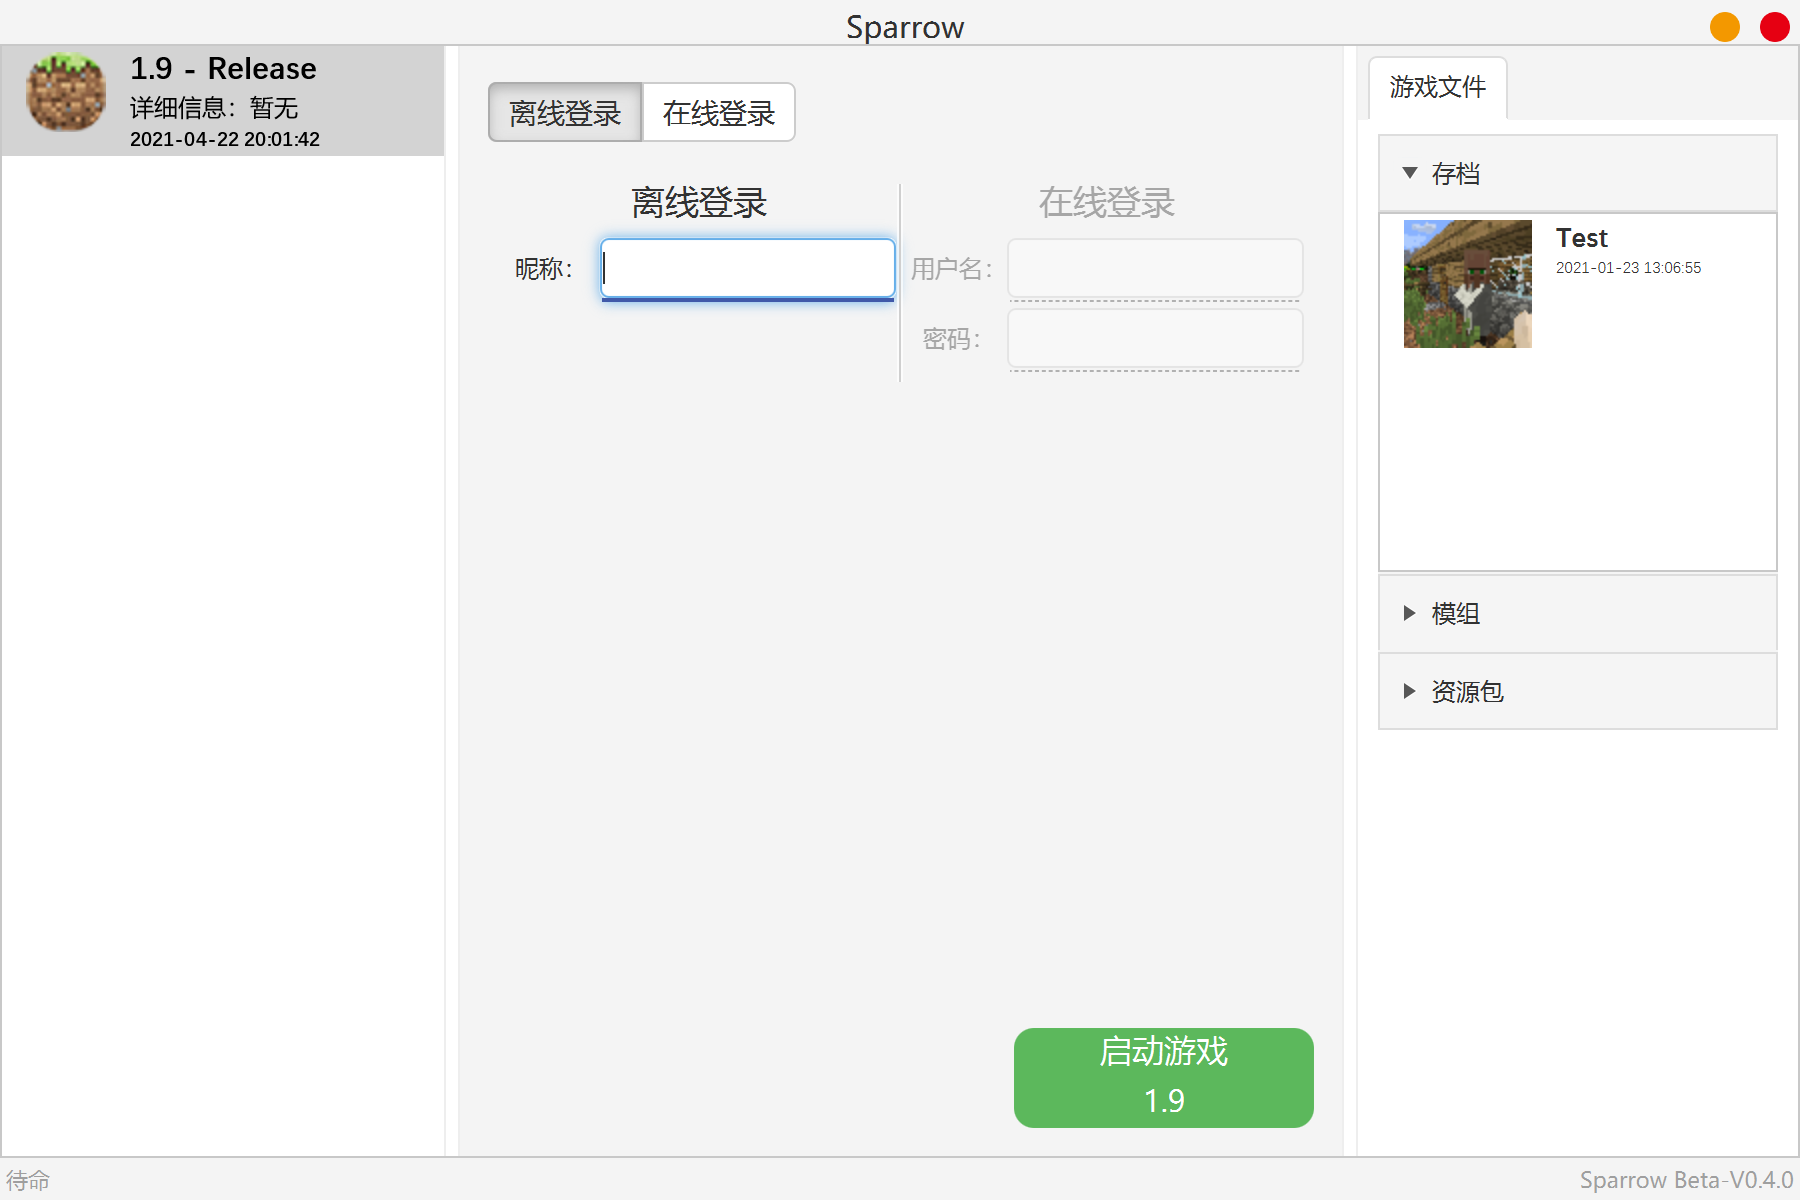
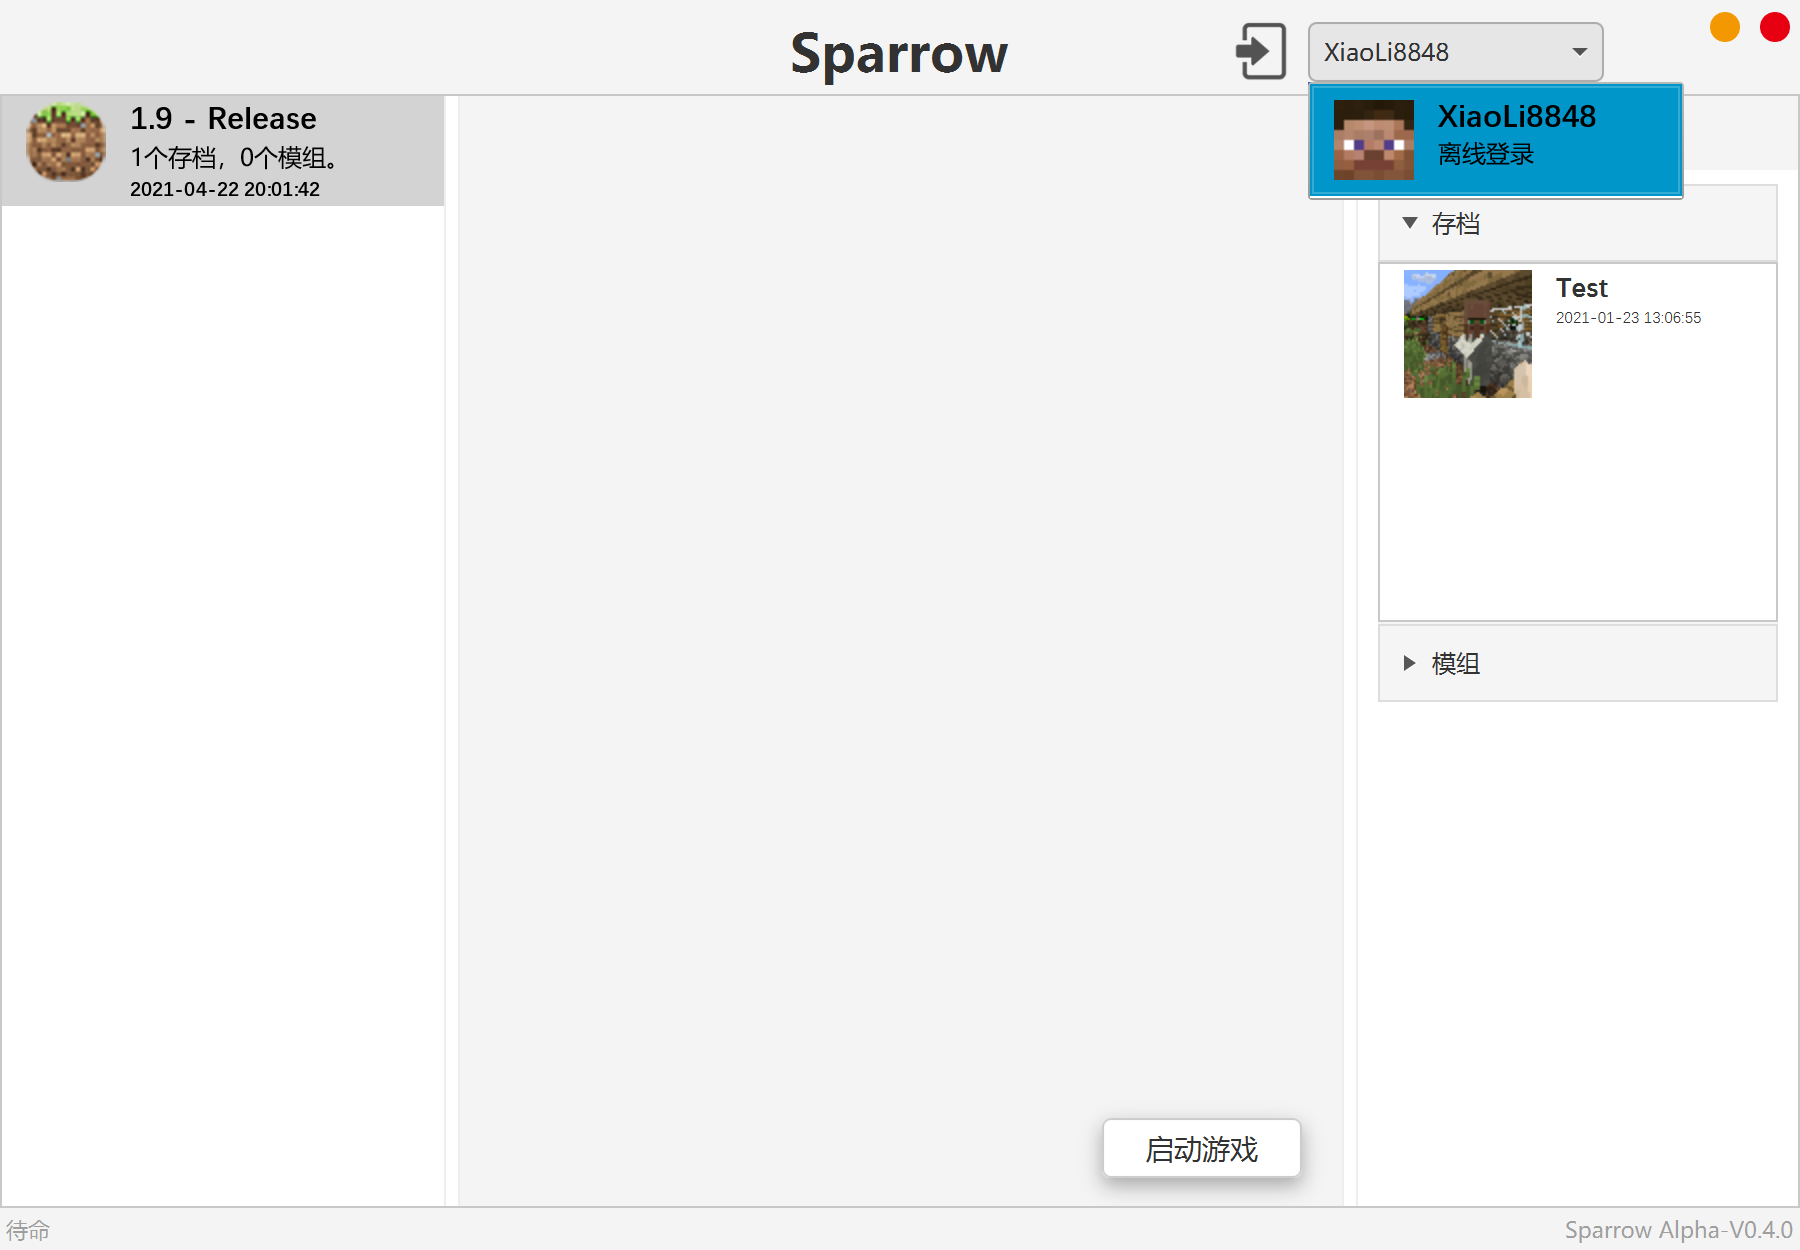
doc: Update the ScreenShot

diff --git a/UI_JavaFX/src/main/java/com/Sparrow/UI/JavaFX/launcherUI_JavaFX_Controller.java b/UI_JavaFX/src/main/java/com/Sparrow/UI/JavaFX/launcherUI_JavaFX_Controller.java
@@ -4,7 +4,6 @@ import com.Sparrow.Utils.MinecraftJFX;
 import com.Sparrow.Utils.SystemPlatform;
 import com.Sparrow.Utils.dialog.errDialog;
 import com.Sparrow.Utils.dialog.expDialog;
-import com.Sparrow.Utils.imageString;
 import com.Sparrow.Utils.user.libUser;
 import com.Sparrow.Utils.user.offlineUser;
 import com.Sparrow.Utils.user.onlineUser;
@@ -22,22 +21,22 @@ import javafx.scene.layout.BorderPane;
 import javafx.scene.layout.HBox;
 import javafx.scene.layout.Pane;
 import javafx.scene.layout.VBox;
+import javafx.scene.text.Font;
 import javafx.scene.text.FontWeight;
 import javafx.scene.text.Text;
 import javafx.stage.DirectoryChooser;
 import org.to2mbn.jmccc.option.MinecraftDirectory;
 
-import javax.imageio.ImageIO;
 import java.io.File;
 import java.io.IOException;
-import java.net.URL;
 import java.util.ArrayList;
 import java.util.regex.Matcher;
 import java.util.regex.Pattern;
 
 public class launcherUI_JavaFX_Controller {
+    protected static final Font FONT_COTITLE = Font.font("DengXian", FontWeight.BOLD, 16);
     private static final String SEPA = File.separator;
-    public static final String ROOTDIR = System.getProperty("user.dir") + SEPA;
+    protected static final String ROOTDIR = System.getProperty("user.dir") + SEPA;
     public File TempPath = new File(ROOTDIR + ".Sparrow");
 
     @FXML
@@ -309,7 +308,6 @@ public class launcherUI_JavaFX_Controller {
 
     @FXML
     void launch() {
-        //TODO 实现在线启动
         /*if (sw == signWays.Offline)
             versionList.getSelectionModel().getSelectedItem().launchOffline(nickName.getText(), true, true, 0, 0, 1000, 800, "");
         else {
@@ -455,7 +453,7 @@ class minecraftCell extends JFXListCell<MinecraftJFX> {
             version.setFont(javafx.scene.text.Font.font("DengXian", FontWeight.BOLD, 16));
             Text info;
             if(item.config.getPackName() == null) {
-                info = new Text("详细信息：暂无");  //TODO 后期加入整合包信息或存档概览
+                info = new Text(item.saves.size()+"个存档，" + item.mods.size()+"个模组。");
             }else{
                 info = new Text("整合包 - " + item.config.getPackName());
             }
@@ -539,6 +537,7 @@ class modsCell extends JFXListCell<MinecraftJFX.mod> {
 }
 
 class userCell extends JFXListCell<user> {
+
     @Override
     public void updateItem(user item, boolean empty) {
         super.updateItem(item, empty);
@@ -548,15 +547,13 @@ class userCell extends JFXListCell<user> {
 
             VBox textBox = new VBox(2);
             Text version = new Text(item.getUserName()); //如果版本号含有字母则标记为NotRelease
-            version.setFont(javafx.scene.text.Font.font("DengXian", FontWeight.BOLD, 16));
-            Text info = new Text(item instanceof offlineUser ? "离线登录" : item instanceof onlineUser ? "在线登录" : "外置登录");  //TODO 后期加入整合包信息或存档概览
+            version.setFont(launcherUI_JavaFX_Controller.FONT_COTITLE);
+            Text info = new Text(item instanceof offlineUser ? "离线登录" : item instanceof onlineUser ? "在线登录" : "外置登录");
             textBox.getChildren().addAll(version, info);
 
             HBox iconBox = new HBox(2);
             ImageView icon = null;
             try {
-                File temp = new File(launcherUI_JavaFX.controller.TempPath.toString() + File.separator + "headTexture_" + item.getUserName() + ".png");
-                temp.createNewFile();
                 ImageView icon1 = new ImageView(item.getTexture().getHeadTexture());
                 icon1.setFitWidth(40);
                 icon1.setFitHeight(40);

diff --git a/UI_JavaFX/src/main/java/com/Sparrow/Utils/config.java b/UI_JavaFX/src/main/java/com/Sparrow/Utils/config.java
@@ -114,7 +114,6 @@ public class config {
         return this.packJson.getString("name");
     }
 
-    //TODO BUG：不直接解析Java Bean List，而解析成JSONObject List后手动解析。
     public List<offlineUser> getOfflineUsers(){
         List<JSONObject> temp = JSONObject.parseArray(versionJson.getJSONObject("users").getJSONArray("offline").toJSONString(),JSONObject.class);
         ArrayList<offlineUser> result = new ArrayList<>();

diff --git a/README.en_US.md b/README.en_US.md
@@ -1,27 +1,76 @@
-Lang : Eng | [简体中文](https://github.com/xiaoli8848/MQ/blob/main/README.zh_CN.md)
+# Sparrow
+_This page is machine-translated._
 
-# MQ
-A MC launcher based on [JMCCC](https://github.com/to2mbn/JMCCC).
+Based on [jmccc](https://github.com/to2mbn/JMCCC) Minecraft starter for
 
-## License
+##Agreement
+This project adopts the protocol [LGPL](license.txt)
 
-MQ is licensed under [the LGPL](LICENSE.txt).
+JMCCC use agreement [MIT license](https://to2mbn.github.io/jmccc/LICENSE.txt)
 
-(JMCCC is licensed under [the MIT license](https://to2mbn.github.io/jmccc/LICENSE.txt).)
+##Characteristics
+-Ability to start all versions of minecraft java client.
 
-## Features
+-Download and automatically install any version of minecraft java client.
 
-- Launch all versions of Minecraft
-- Downloads all versions of Minecraft
-- Uses the com.Sparrow.UI by JavaFX to launch (or download) the different versions of Minecraft.
+-The visualization interface interaction is implemented by using JavaFX.
 
-## Postscript
+##QuickStart
 
-A I'm interested in this project is based on the interface of the [JMCCC] (https://github.com/to2mbn/JMCCC), made of Minecraft game launcher, mainly study the purpose, in the production process of trial and error on the Java GUI implementation, project management.
+###Build
+This project is a java project mainly developed by idea, and Maven is used for dependency management.
 
-If you are interested in this project, you are most welcome to provide some valuable guidance and suggestions.
-You are free to play around with the project as long as you comply with its open source license.
+Download (clone) the entire warehouse and open it using idea. Then synchronize using the Maven tool.
 
-The authors don't have a lot of time, and they do it once or twice a week, so don't be surprised.
+If you need to build a project, you may need the runtime environment for jdk8. Also, make sure that the environment has a JavaFX environment.
 
-![Screenshot](docs/Screenshot_JavaFX.png)
+------
+If not expected, there should be a set-up build configuration in the project named withUI+ UI platform name. The following are two existing configurations:
+
+|Configuration name | master class|
+| :-----------: | :-------------------------:|
+| withUI_ JavaFX | com.Sparrow.UI.JavaFX.launcherUI |
+|   withUI_ H5   |  com.Sparrow.UI.H5.launcherUI |
+
+If the expected configuration does not exist, configure yourself according to the table above.
+
+Then you can choose the appropriate configuration build project.
+
+###Class &amp; Package &amp; module
+
+####Package
+
+com.Sparrow is the root path of the project package.
+-com.Sparrow.Launcher (class) declares the way to start a game quickly for starters.
+
+-com.Sparrow.Utils.minecraft (class) defines a class that contains minecraft game paths and boot methods and other tool methods encapsulated from com.Sparrow.launcher.
+
+-com.Sparrow.Utils stores the various tool classes.
+
+-com.Sparrow.Utils.dialog various dialog boxes (JavaFX Implementation).
+
+-com.Sparrow.Utils.download encapsulates the download function in JMCC.
+
+-com.Sparrow.Utils.pack package, export integration package (that is, zip compression package of game directory).
+
+-com.Sparrow.UI stores the program GUI.
+
+-Each package under it is a platform GUI. By default, there are launcherui classes under each package, which contains the program master class to start the GUI platform under the package.
+
+####Module
+
+Launcher: the core part of the initiator, encapsulates some classes and startup methods, and some UI unified tool classes. Each UI module should contain the launcher module.
+
+UI_ H5: the implementation of initiator GUI under javafx+html5 has been abandoned.
+
+UI_ JavaFX: the implementation of initiator GUI under javafx+fxml.
+
+##Postscript
+
+This project is based on an interface of interest to me [jmcc]（ https://github.com/to2mbn/JMCCC ）, the minecraft game initiator is mainly for learning purpose, and constantly explore the GUI implementation and project management in Java during the process of production.
+
+If you are interested, it is very welcome to provide guidance and some valuable comments on this project. You can do this project at will, on the premise of complying with the open source agreement of this project.
+
+The author has few time, and will develop it once or twice a week, so don't blame.
+
+![ScreenShot_JavaFX](docs/Screenshot_JavaFX.png)

diff --git a/README.md b/README.md
@@ -30,8 +30,8 @@
 
 |    配置名     |            主类             |
 | :-----------: | :-------------------------:|
-| withUI_JavaFX | com.Sparrow.com.Sparrow.UI.JavaFX.launcherUI |
-|   withUI_H5   |   com.Sparrow.com.Sparrow.UI.H5.launcherUI |
+| withUI_JavaFX | com.Sparrow.UI.JavaFX.launcherUI |
+|   withUI_H5   |  com.Sparrow.UI.H5.launcherUI |
 
 如果预期的配置不存在，请根据上表自行配置。
 
@@ -40,7 +40,7 @@
 ### 类 & 包 & 模块
 
 #### 包
-com.MQ为本项目包根路径。
+com.Sparrow为本项目包根路径。
 
 - com.Sparrow.launcher（类） 声明了启动器的快速启动游戏的方法。
 - com.Sparrow.Utils.Minecraft（类）  定义了一个类，包含Minecraft游戏路径和封装自 com.Sparrow.launcher 的启动方法和其它工具方法。
@@ -66,4 +66,4 @@ UI_JavaFX：启动器GUI在JavaFX+FXML下的实现。
 
 作者时间不多，一周会开发一两次，所以请勿见怪。
 
-![屏幕截图](docs/Screenshot_JavaFX.png)
+![屏幕截图_JavaFX](docs/Screenshot_JavaFX.png)
